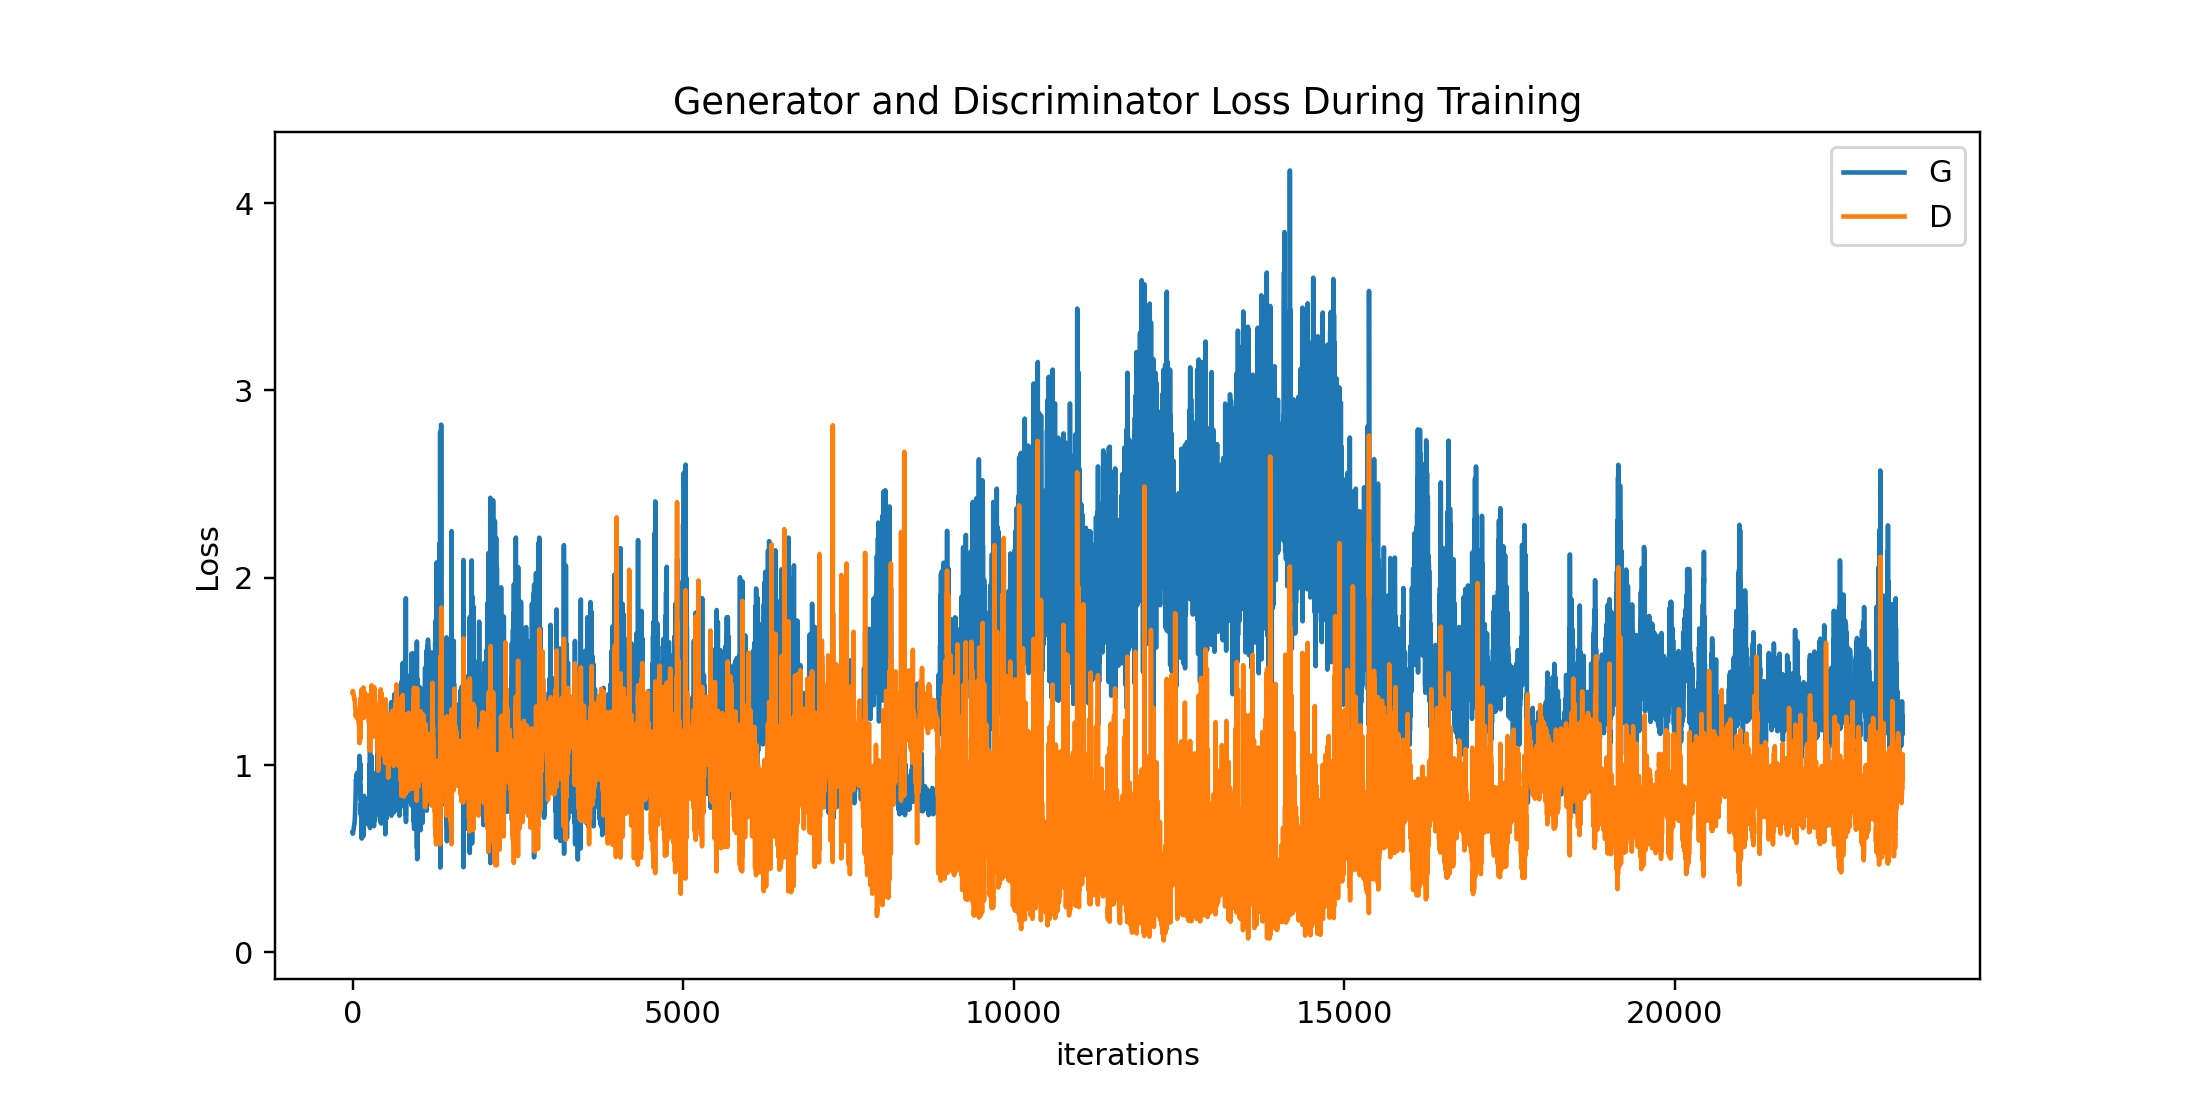
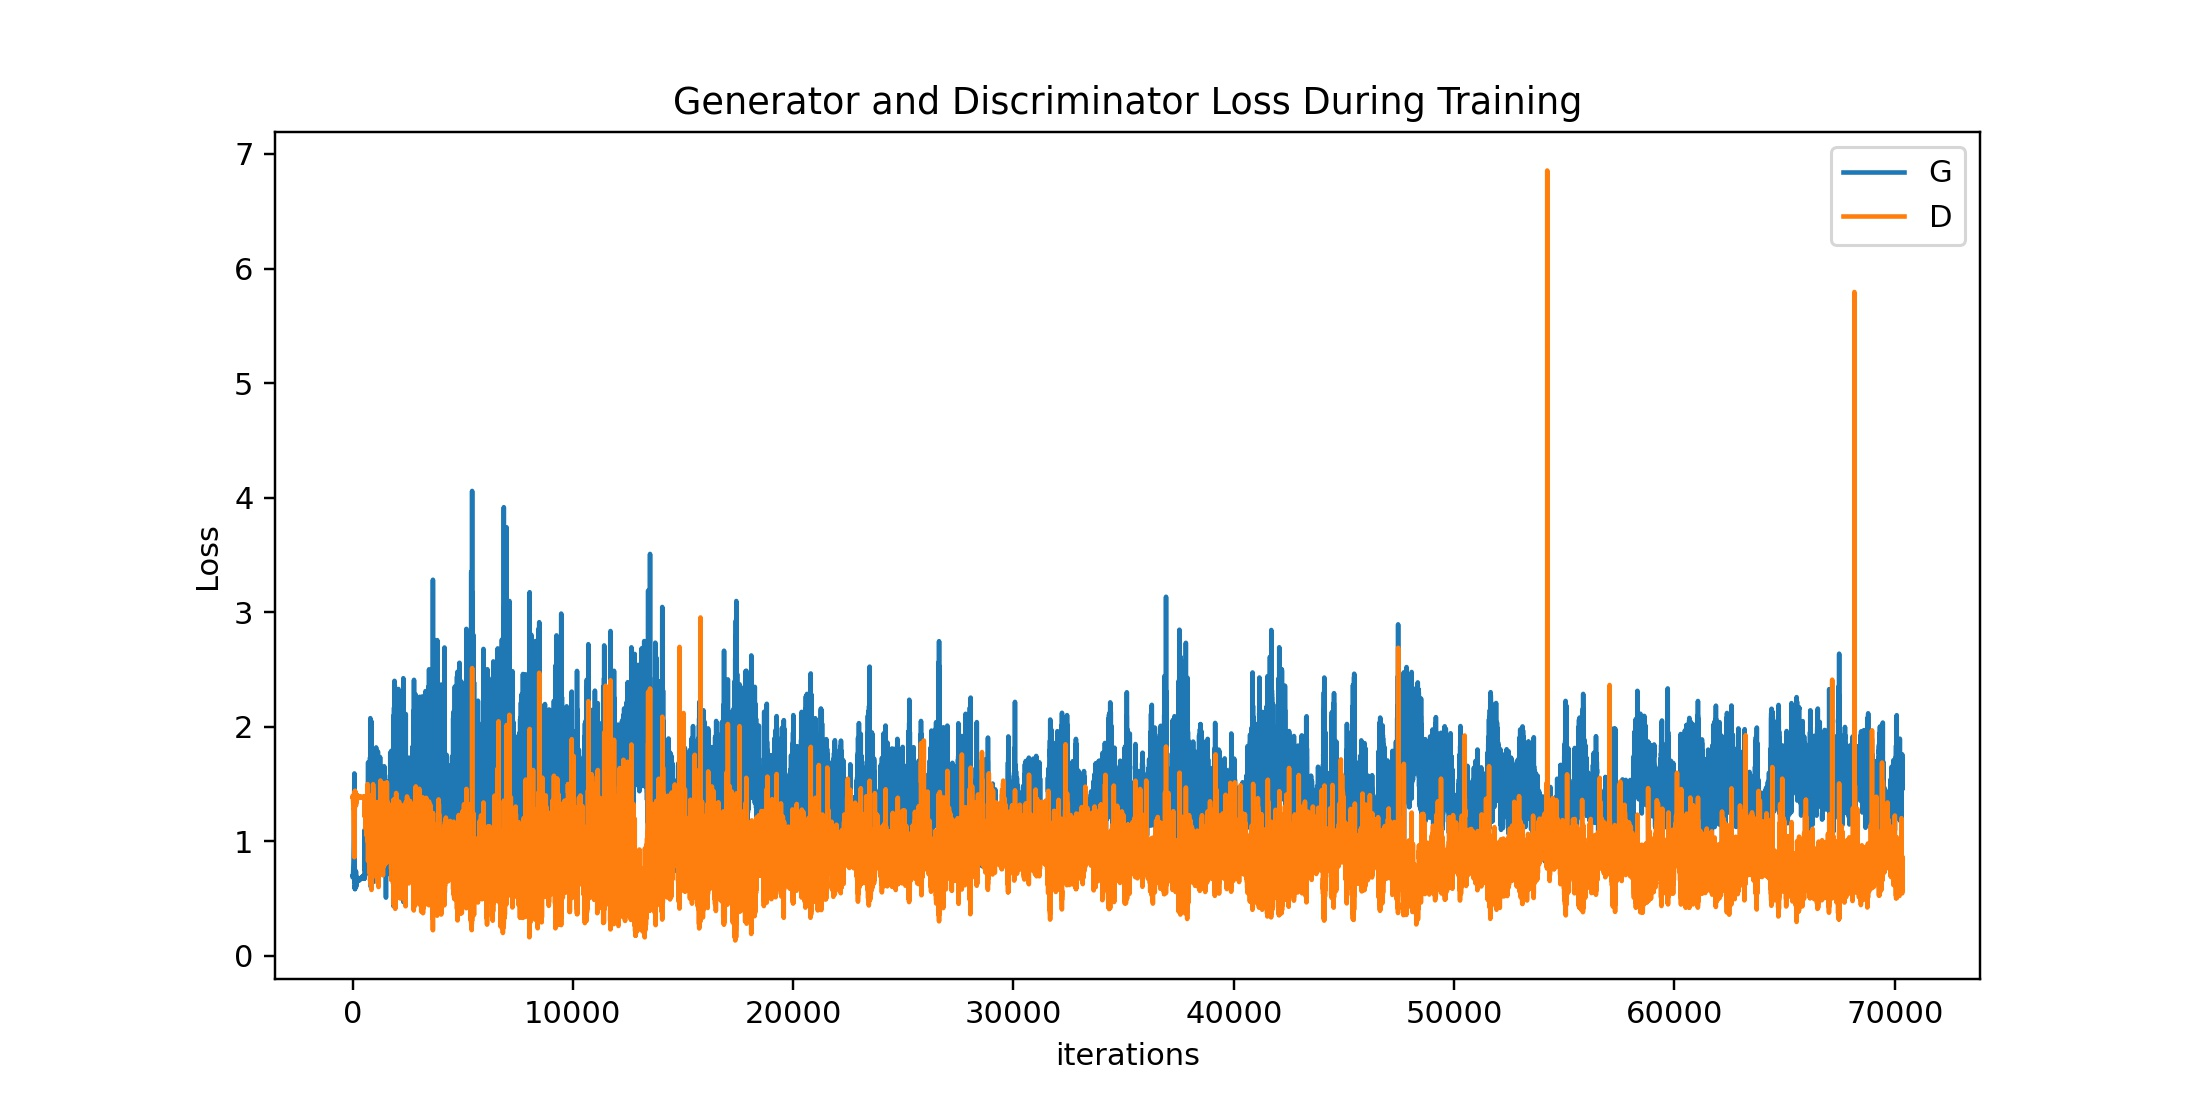
from cloud

diff --git a/GAN/GAN_Manager.py b/GAN/GAN_Manager.py
@@ -42,7 +42,7 @@ class Gan_Manager:
         G_losses = []
         D_losses = []
         iters = 0
-        num_epochs = 50
+        num_epochs =150
 
         print("Starting Training Loop...")
         # For each epoch
